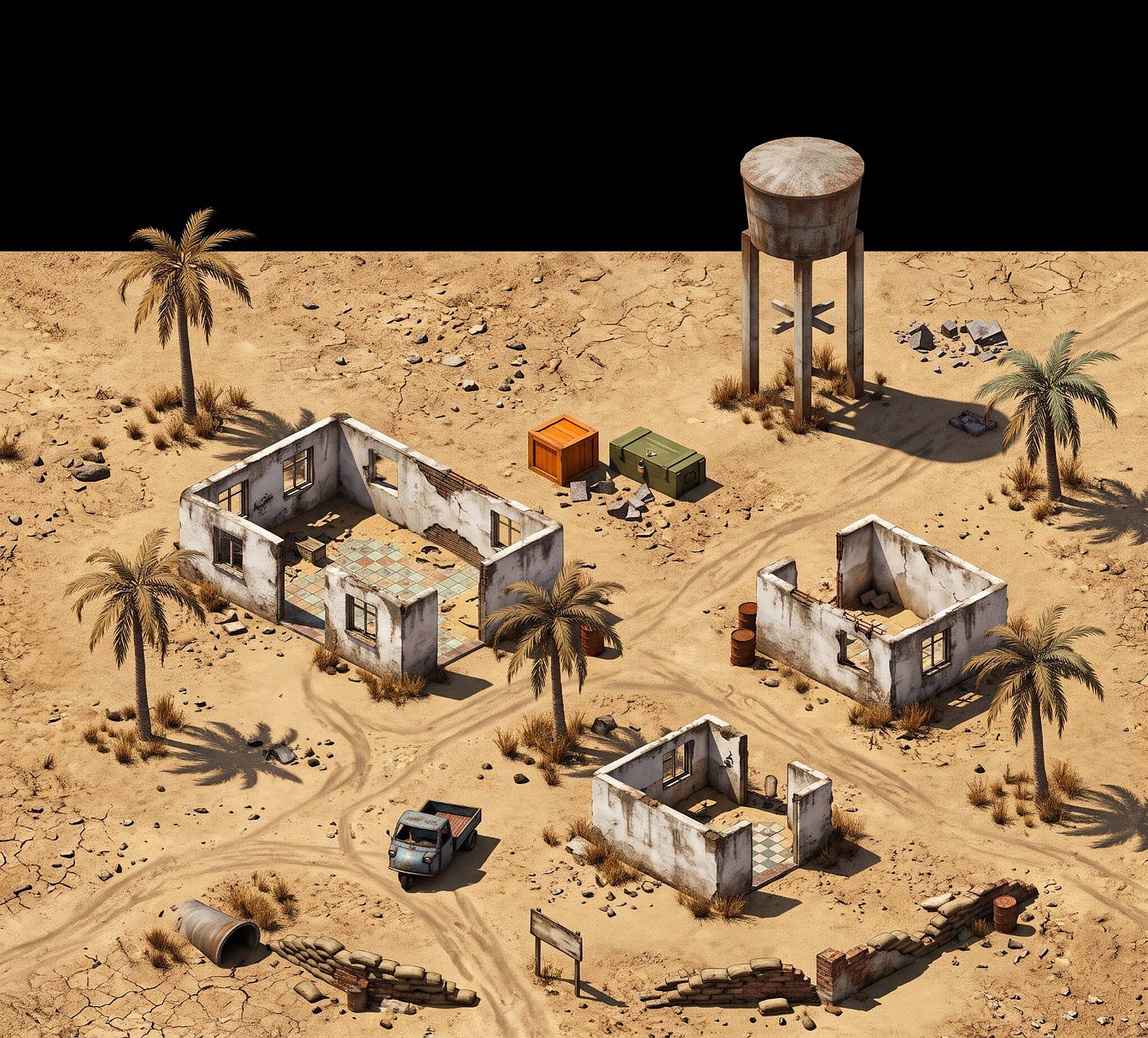
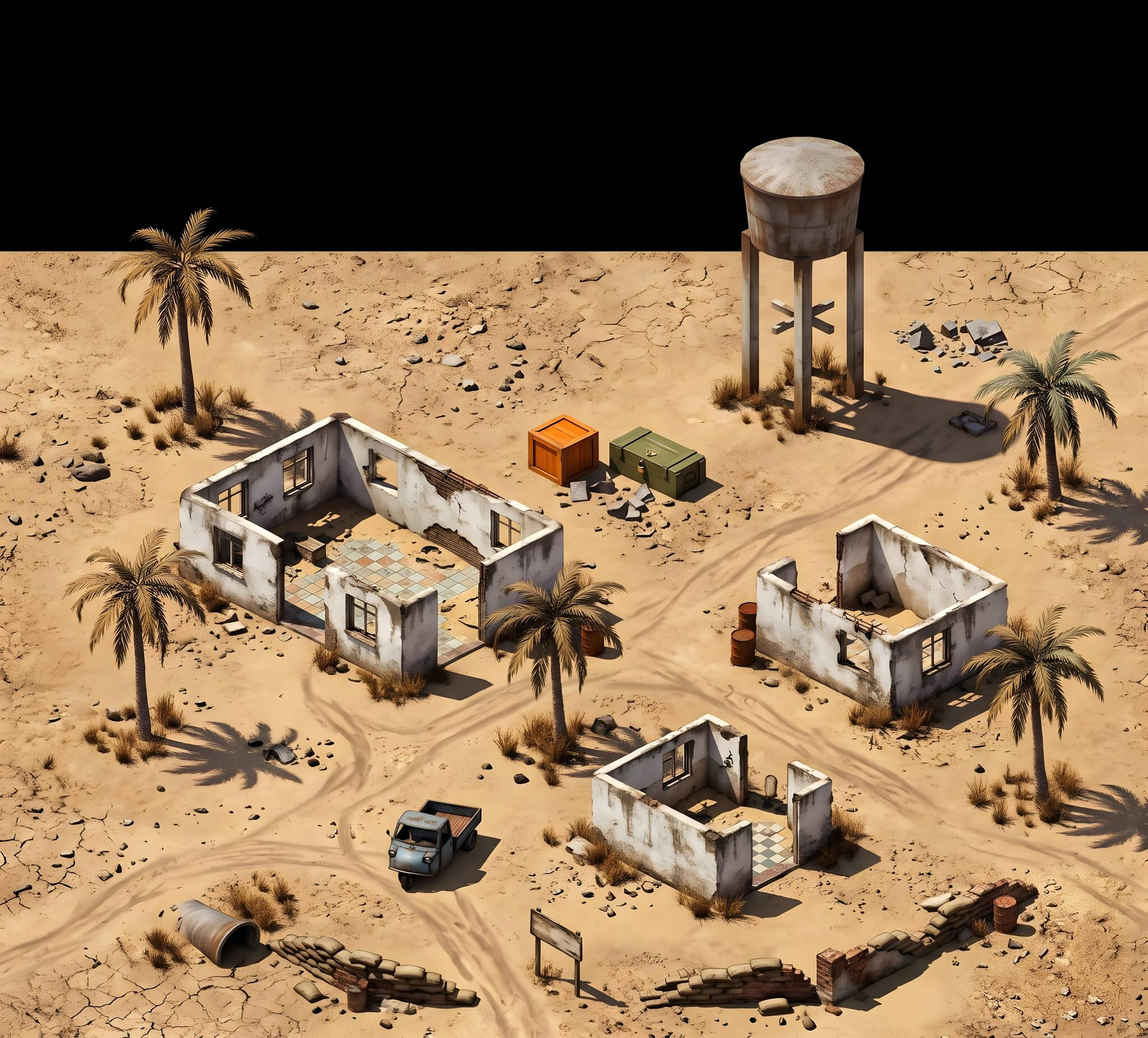
Фон кибуца из увеличенной версии
Подставлен увеличенный до 2000×2000 фон; значок апскейлера в правом
нижнем углу заменён тем же фрагментом исходника. Геометрия не сдвинулась.

Claude-Session: https://claude.ai/code/session_013XjA6CiNKVekdAUWx1gm9r

diff --git a/src/data/kibbutz.ts b/src/data/kibbutz.ts
@@ -16,8 +16,8 @@ export const KIBBUTZ: LevelDef = {
   rows: 56,
   groundColor: 0xd2b27a,
   // Фон перерисован во Flow из заготовки docs/guides/kibbutz-blockout.png
-  // (исходник: assets/incoming/backgrounds/kibbutz-flow-a.jpg, приведён к
-  // пропорциям заготовки и увеличен вдвое). Калибровка — из kibbutz-calibration.json ×2.
+  // (исходник: assets/incoming/backgrounds/kibbutz-flow-a-upscaled.jpg, без
+  // значка апскейлера, приведён к пропорциям заготовки). Калибровка — kibbutz-calibration.json ×2.
   background: { src: 'backgrounds/kibbutz.jpg', width: 3352, height: 3032, ppu: 90, originPx: [90, 824.42] },
   props: [
     { type: 'hatch', u: 6.1, v: 42 },

diff --git a/docs/TODO.md b/docs/TODO.md
@@ -28,7 +28,7 @@
 
 Перерисуй заготовку `docs/guides/kibbutz-blockout.png` (или `kibbutz-clay.png`) промптом **B1**. Это проверка всего конвейера: если фон ляжет на сетку, дальше все локации делаются так же. Пришли файл, я подключу его в игру и откалибрую.
 
-> Подключён вариант `assets/incoming/backgrounds/kibbutz-flow-a.jpg`. Сейчас он увеличен обычным способом и на 1080p немного мягкий. Прогони исходник через Upscayl (×2 или ×4, модель для фото/арта) и пришли: я подставлю чёткую версию.
+> Подключён вариант `kibbutz-flow-a`, увеличенный до 2000×2000. Для следующих локаций увеличивай сразу в 4 раза (до 6000 px): тогда фон будет резким и на 4K.
 
 ## Шаг 5. «Говорящая голова» Батьи
 
